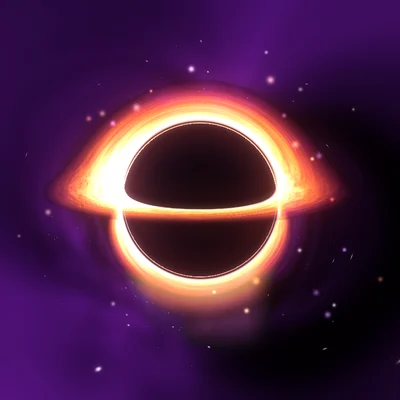
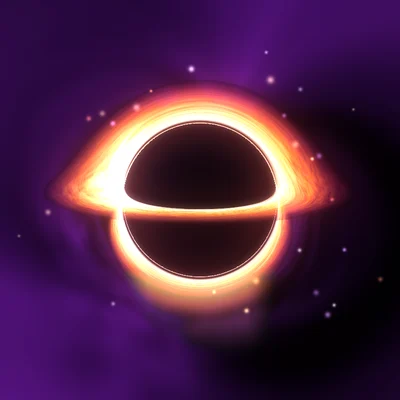
Nivel 40: disco más rápido (24 cuadros) y estrellas de fondo en movimiento con lente gravitacional y estrellas devoradas
Claude-Session: https://claude.ai/code/session_01SxSLU6wDo1LSzyXoUYuBru

diff --git a/www/index.html b/www/index.html
@@ -6446,27 +6446,71 @@ button.mx-rw { cursor: pointer; color: #3a1500; background: linear-gradient(135d
   var embN = 0;
   function bhEmblem(n, size, anim) {
     var small = !anim && size <= 90, id = "bhe" + (++embN), s = "", i, hp = function (r) { var p = []; for (var k = 0; k < 6; k++) { var a = (-90 + k * 60) * Math.PI / 180; p.push((100 + r * Math.cos(a)).toFixed(1) + "," + (100 + r * Math.sin(a)).toFixed(1)); } return p.join(" "); };
-    s += '<defs><clipPath id="' + id + 'k"><polygon points="' + hp(82) + '"/></clipPath><filter id="' + id + 'g"><feGaussianBlur stdDeviation="4.5"/></filter><linearGradient id="' + id + 'f" x1="0" y1="0" x2="1" y2="1"><stop offset="0" stop-color="#f0abfc"/><stop offset=".5" stop-color="#a21caf"/><stop offset="1" stop-color="#3b0764"/></linearGradient></defs>';
+    s += '<defs><radialGradient id="' + id + 's"><stop offset="0" stop-color="#fff" stop-opacity=".22"/><stop offset="1" stop-color="#cfe0ff" stop-opacity="0"/></radialGradient><clipPath id="' + id + 'k"><polygon points="' + hp(82) + '"/></clipPath><filter id="' + id + 'g"><feGaussianBlur stdDeviation="4.5"/></filter><linearGradient id="' + id + 'f" x1="0" y1="0" x2="1" y2="1"><stop offset="0" stop-color="#f0abfc"/><stop offset=".5" stop-color="#a21caf"/><stop offset="1" stop-color="#3b0764"/></linearGradient></defs>';
     s += '<circle cx="100" cy="100" r="99" fill="#d946ef" opacity=".24" filter="url(#' + id + 'g)">' + (anim ? '<animate attributeName="opacity" values=".25;.5;.25" dur="4s" repeatCount="indefinite"/>' : "") + "</circle>";
     s += '<polygon points="' + hp(92) + '" fill="url(#' + id + 'f)" stroke="#3a1408" stroke-width="3"/><polygon points="' + hp(83) + '" fill="#000"/><g clip-path="url(#' + id + 'k)">';
-    for (i = 0; i < (anim ? 12 : 1); i++) s += '<image class="bhf"' + (anim ? ' data-a="1"' : "") + ' href="' + (small ? "bh/small.webp" : "bh/f" + (i < 10 ? "0" : "") + i + ".webp") + '" x="14" y="14" width="172" height="172" opacity="' + (i ? 0 : 1) + '"/>';
+    for (i = 0; i < (anim ? 24 : 1); i++) s += '<image class="bhf"' + (anim ? ' data-a="1"' : "") + ' href="' + (small ? "bh/small.webp" : "bh/f" + (i < 10 ? "0" : "") + i + ".webp") + '" x="14" y="14" width="172" height="172" opacity="' + (i ? 0 : 1) + '"/>';
+    if (anim) s += '<g class="bhs">' + bhStars().map(function () { return '<g class="bs" opacity="0"><path class="tr" d="" fill="none" stroke-linecap="round"/><g class="hd"><path d="M-3 0H3M0-3V3" stroke-width=".35" stroke-linecap="round" opacity=".6"/><ellipse rx="1" ry="1" stroke="none"/></g></g>'; }).join("") + "</g>";
     s += '</g><polygon points="' + hp(83) + '" fill="none" stroke="#ffe2c4" stroke-opacity=".6" stroke-width="2"/>';
     if (size <= 56) s += '<rect x="48" y="142" width="104" height="40" rx="20" fill="#000" fill-opacity=".78" stroke="#ffb482" stroke-opacity=".8"/><text x="100" y="172" text-anchor="middle" font-weight="900" font-size="32" fill="#fff" stroke="#000" stroke-width="3" paint-order="stroke" font-family="Inter,system-ui,sans-serif">' + (n | 0) + "</text>";
     else if (small) s += '<rect x="54" y="146" width="92" height="32" rx="16" fill="#000" fill-opacity=".78" stroke="#ffb482" stroke-opacity=".8"/><text x="100" y="170" text-anchor="middle" font-weight="900" font-size="26" fill="#fff" stroke="#000" stroke-width="3" paint-order="stroke" font-family="Inter,system-ui,sans-serif">' + (n | 0) + "</text>";
     else s += '<rect x="64" y="152" width="72" height="24" rx="12" fill="#000" fill-opacity=".75" stroke="#ffb482" stroke-opacity=".8"/><text x="100" y="170" text-anchor="middle" font-weight="900" font-size="19" fill="#fff" font-family="Inter,system-ui,sans-serif">' + (n | 0) + "</text>";
     return '<svg viewBox="-6 -4 212 204" width="' + size + '" height="' + Math.round(size * 0.962) + '" aria-hidden="true" style="overflow:visible">' + s + "</svg>";
   }
-  var bhRaf = 0, bhT0 = 0;
+  var BH_S = null;
+  function bhStars() {
+    if (BH_S) return BH_S;
+    var r = 777, rnd = function () { r = (r * 1664525 + 1013904223) % 4294967296; return r / 4294967296; }; BH_S = [];
+    var yy = [28, 52, 74, 96, 120, 138, 36, 108, 64];
+    for (var i = 0; i < 9; i++) BH_S.push({ d: 0, x: rnd() * 240 - 20, y: yy[i] + rnd() * 6, sp: 3 + rnd() * 5, sz: 0.6 + rnd() * 0.5, ph: rnd() * 6.28, c: ["#ffffff", "#d7e6ff", "#ffeedd"][i % 3] });
+    BH_S.push({ d: 1, pd: 13, ph: 0.15, a0: 3.6, sg: 1, r0: 80, sz: 0.9, c: "#ffffff" });
+    BH_S.push({ d: 1, pd: 17, ph: 0.62, a0: 0.5, sg: -1, r0: 78, sz: 0.8, c: "#e8f0ff" });
+    return BH_S;
+  }
+  var BH_RS = 31, BH_TE = 38;
+  function bhDoom(q, u) {
+    var r = BH_RS + (q.r0 - BH_RS) * Math.pow(1 - u, 2.2), a = q.a0 + q.sg * (2.4 * u + 3.6 * u * u * u);
+    return [100 + r * Math.cos(a), 100 + r * Math.sin(a) * 0.92, a];
+  }
+  // El agujero negro "viaja": las estrellas se deslizan, su gravedad las curva y alguna cae en espiral y es devorada
+  function bhStarsDraw(g, t) {
+    var st = bhStars(), el = g.childNodes, i, q, e, hd, x, y, ang, sx, sy, o, wr = function (v) { return ((v + 20) % 240 + 240) % 240 - 20; };
+    for (i = 0; i < st.length; i++) {
+      q = st[i]; e = el[i]; if (!e) break; hd = e.lastChild;
+      if (!q.d) {
+        var px = wr(q.x - q.sp * t), py = q.y + 3 * Math.sin(t * 0.3 + q.ph), dx = px - 100, dy = py - 100, b = Math.sqrt(dx * dx + dy * dy) || 0.01, th = (b + Math.sqrt(b * b + 4 * BH_TE * BH_TE)) / 2, k = th / b;
+        x = 100 + dx * k; y = 100 + dy * k; ang = Math.atan2(dy, dx) * 57.2958 + 90;
+        var near = BH_TE / (b + BH_TE); sx = q.sz * (1 + 3.2 * near * near); sy = q.sz * 0.8;
+        o = (0.55 + 0.45 * near) * (0.78 + 0.22 * Math.sin(t * 1.7 + q.ph * 3));
+        hd.setAttribute("fill", q.c); hd.setAttribute("stroke", q.c); e.firstChild.setAttribute("d", "");
+      } else {
+        var u = ((t / q.pd + q.ph) % 1), p = bhDoom(q, u), tr = "", kk, pp;
+        x = p[0]; y = p[1]; ang = p[2] * 57.2958 + 90 * q.sg;
+        sx = q.sz * (1 + 0.8 * u); sy = q.sz;
+        o = Math.min(1, u * 12) * (u < 0.94 ? 1 : Math.max(0, 1 - (u - 0.94) / 0.06));
+        if (u > 0.9) { sx *= 1 + (u - 0.9) * 14; sy *= 1 + (u - 0.9) * 14; }
+        var col = u < 0.5 ? q.c : u < 0.8 ? "#ffdcae" : "#ff9a4a";
+        for (kk = 0; kk < 9; kk++) { pp = bhDoom(q, Math.max(0, u - kk * 0.014)); tr += (kk ? "L" : "M") + pp[0].toFixed(1) + " " + pp[1].toFixed(1); }
+        e.firstChild.setAttribute("d", tr); e.firstChild.setAttribute("stroke", col); e.firstChild.setAttribute("stroke-width", (0.9 + u * 0.8).toFixed(2)); e.firstChild.setAttribute("opacity", (0.35 * Math.min(1, u * 6)).toFixed(2));
+        hd.setAttribute("fill", col); hd.setAttribute("stroke", col);
+      }
+      hd.setAttribute("transform", "translate(" + x.toFixed(1) + " " + y.toFixed(1) + ") rotate(" + ang.toFixed(0) + ")");
+      hd.lastChild.setAttribute("rx", (sx * 0.95).toFixed(2)); hd.lastChild.setAttribute("ry", (sy * 0.8).toFixed(2)); hd.firstChild.setAttribute("transform", "scale(" + (0.7 + q.sz * 0.7).toFixed(2) + ")");
+      e.setAttribute("opacity", o.toFixed(2));
+    }
+  }
+  var bhRaf = 0, bhT0 = 0, bhLast = 0;
   function bhLoop(ts) {
     var ims = document.querySelectorAll(".bhf[data-a]");
     if (!ims.length || calmOn()) { bhRaf = 0; return; }
     var vis = !$("max").hidden || !$("lvlup").hidden;
     if (vis) {
       if (!bhT0) bhT0 = ts;
-      var n = 12, x = (((ts - bhT0) / 7000) % 1) * n, a = Math.floor(x) % n, b = (a + 1) % n, f = x - Math.floor(x), top = Math.max(a, b), bot = Math.min(a, b), tf = top === b ? f : 1 - f;
+      var n = 24, x = (((ts - bhT0) / 6000) % 1) * n, a = Math.floor(x) % n, b = (a + 1) % n, f = x - Math.floor(x), top = Math.max(a, b), bot = Math.min(a, b), tf = top === b ? f : 1 - f;
       for (var i = 0; i < ims.length; i += n) {
         for (var k = 0; k < n && ims[i + k]; k++) ims[i + k].setAttribute("opacity", k === bot ? 1 : k === top ? tf : 0);
       }
+      if (ts - bhLast >= 30) { bhLast = ts; var gs = document.querySelectorAll(".bhs"); for (var j = 0; j < gs.length; j++) bhStarsDraw(gs[j], (ts - bhT0) / 1000); }
     }
     bhRaf = requestAnimationFrame(bhLoop);
   }
